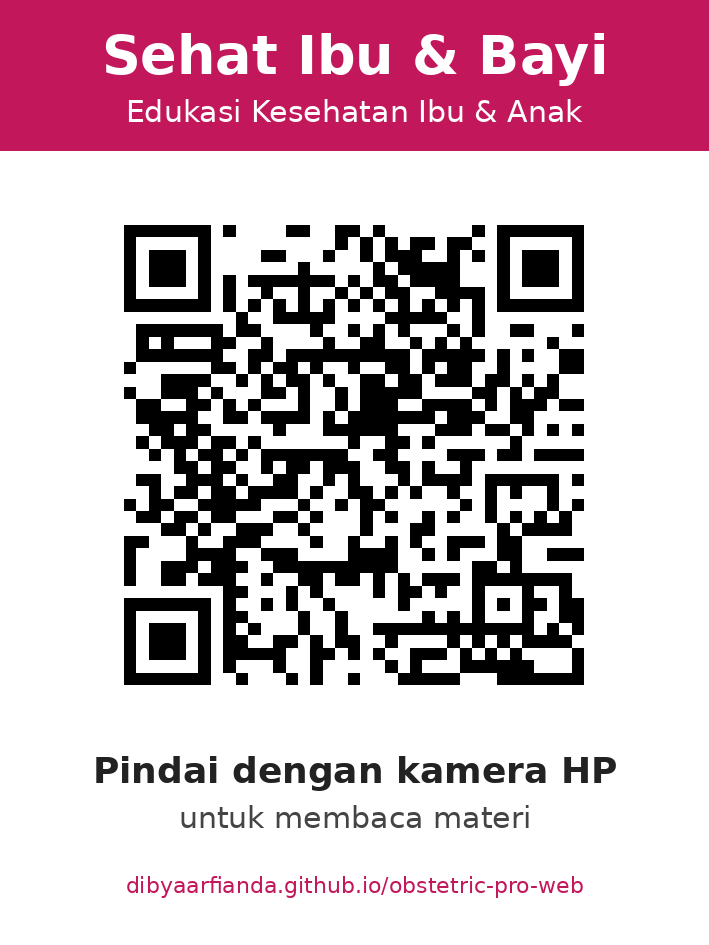
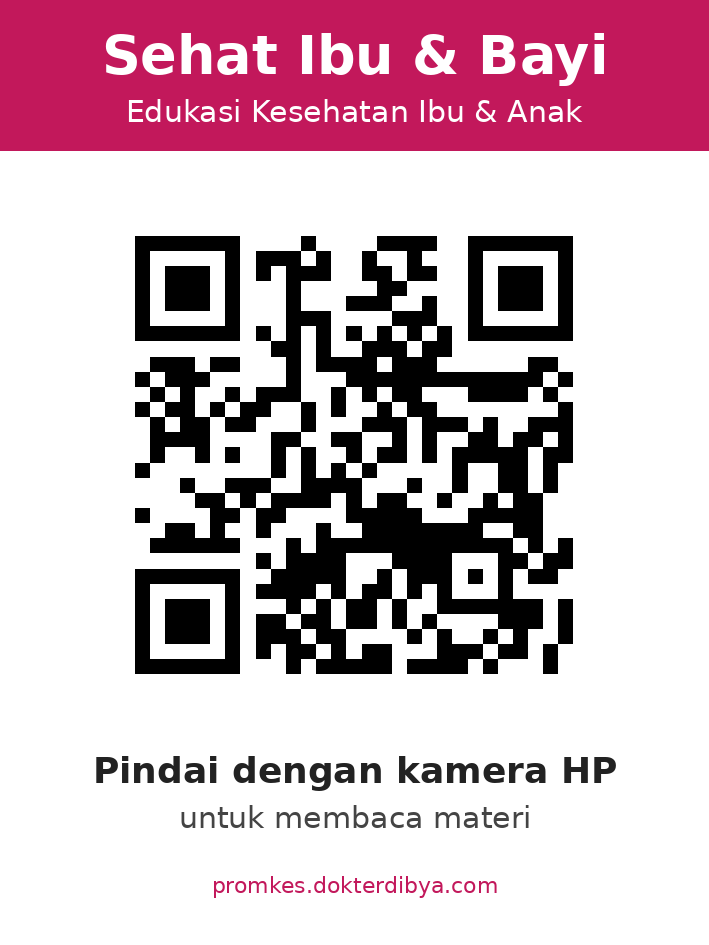
Pindah ke custom domain promkes.dokterdibya.com (#11)
Tambah CNAME (ikut disalin ke _site), QR dibuat ulang ke domain baru, README diperbarui.

Claude-Session: https://claude.ai/code/session_014VUJoV9U6whFUnG6NhpPA1

Changed region(s): [[0.1551, 0.2148, 0.8378, 0.7365], [0.1862, 0.9206, 0.8378, 0.9513]]

diff --git a/qr/buat_qr.py b/qr/buat_qr.py
@@ -11,7 +11,7 @@ import qrcode
 import qrcode.image.svg
 from PIL import Image, ImageDraw, ImageFont
 
-URL = sys.argv[1] if len(sys.argv) > 1 else "https://dibyaarfianda.github.io/obstetric-pro-web/"
+URL = sys.argv[1] if len(sys.argv) > 1 else "https://promkes.dokterdibya.com/"
 OUT = Path(__file__).parent
 BRAND = "#c2185b"
 FONT = "/usr/share/fonts/truetype/dejavu/DejaVuSans{}.ttf"

diff --git a/README.md b/README.md
@@ -46,13 +46,15 @@ Buka http://localhost:8080. Service worker hanya aktif di `localhost` atau HTTPS
 ## Publikasi (GitHub Pages)
 
 Situs dipublikasikan otomatis oleh `.github/workflows/pages.yml` setiap ada push ke `main`,
-ke alamat **https://dibyaarfianda.github.io/obstetric-pro-web/** (HTTPS otomatis dari GitHub).
+ke alamat **https://promkes.dokterdibya.com/** (file `CNAME` ikut disalin; alamat lama
+https://dibyaarfianda.github.io/obstetric-pro-web/ dialihkan otomatis oleh GitHub).
 
 Aktivasi sekali saja: repo **Settings > Pages > Build and deployment > Source: GitHub Actions**.
 Setelah itu jalankan workflow dari tab **Actions** (atau tunggu push berikutnya ke `main`).
 
-Domain sendiri (opsional): isi **Settings > Pages > Custom domain** (mis. `edukasi.contoh-rs.go.id`),
-buat record DNS `CNAME` ke `dibyaarfianda.github.io`, lalu centang **Enforce HTTPS**.
+Domain sendiri: record DNS `CNAME` `promkes` -> `dibyaarfianda.github.io` di pengelola DNS
+`dokterdibya.com`, isi **Settings > Pages > Custom domain** dengan `promkes.dokterdibya.com`,
+lalu centang **Enforce HTTPS** setelah sertifikat terbit.
 Semua path di situs relatif, jadi tidak perlu mengubah kode. Buat ulang QR code setelah pindah domain.
 
 ## QR code
